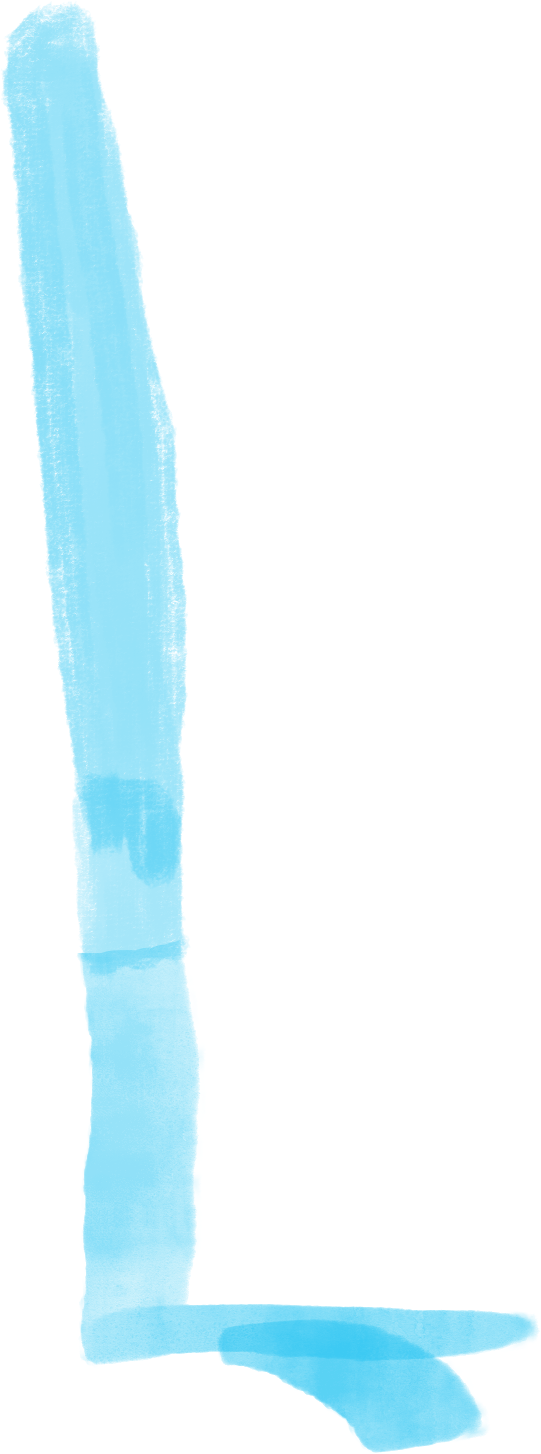
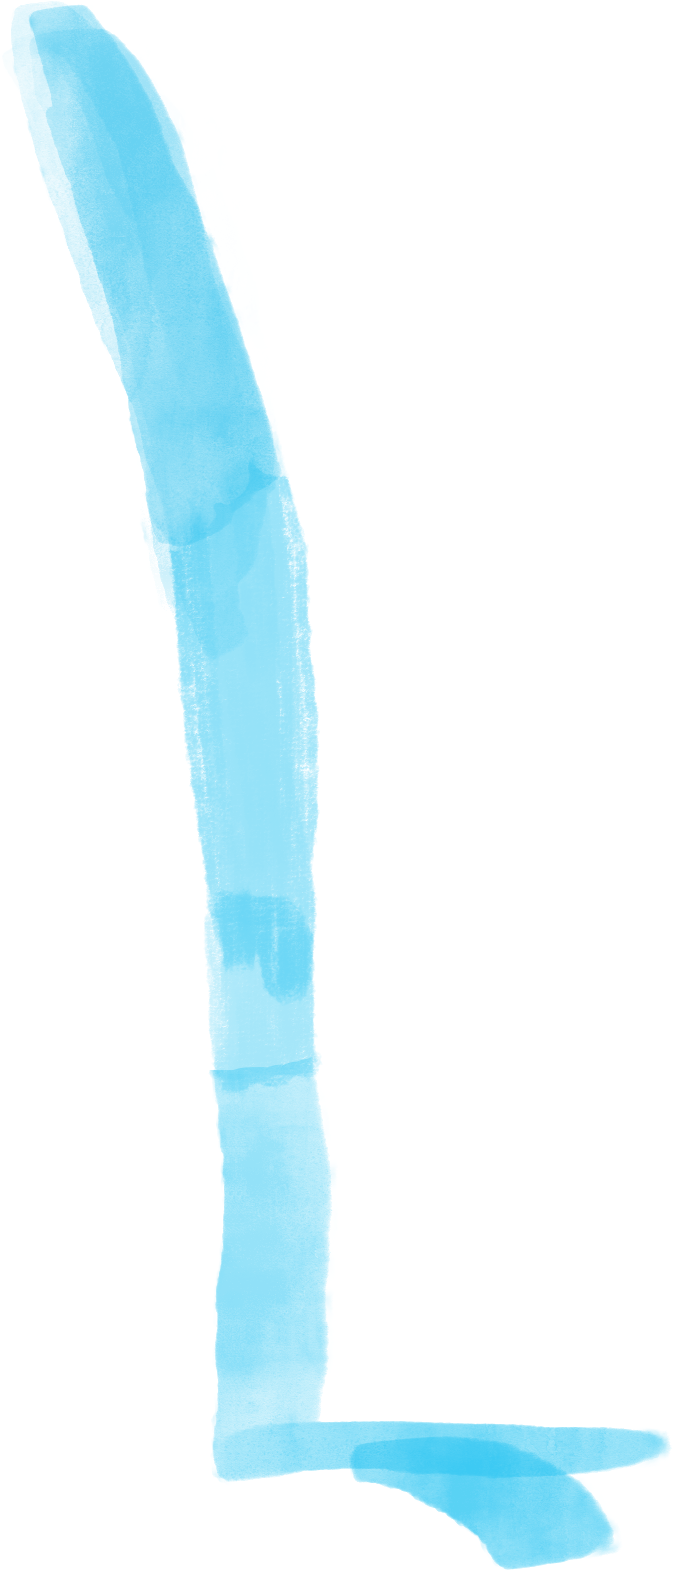
Puppet: Add updated images for legs, body, neck, and head

Changed region(s): [[0.0, 0.0, 1.0, 1.0]]

diff --git a/features/monster/Puppet.tsx b/features/monster/Puppet.tsx
@@ -38,6 +38,7 @@ type PartName =
 	| 'legR'
 	| 'armL'
 	| 'armR'
+	| 'neck'
 	| 'body'
 	| 'head'
 	| 'mouth'
@@ -50,6 +51,7 @@ const partNames = [
 	'legR',
 	'armL',
 	'armR',
+	'neck',
 	'body',
 	'head',
 	'mouth',
@@ -58,30 +60,31 @@ const partNames = [
 	'pupilR',
 ] as PartName[]
 
+const baseGain = 0.33
 const headGain = { x: 1.1, y: 1.1 } as Pos
 
 const parts: Record<PartName, Part> = {
 	legL: {
 		src: require('../../assets/monsterParts/leg-left.png'),
-		left: 0.583,
-		w: 0.213,
-		top: 0.53556,
-		h: 0.40683,
+		left: 0.53461,
+		w: 0.27582,
+		top: 0.48885,
+		h: 0.45497,
 		pivot: { x: 0.61754, y: 0.73971 },
 		doubleSpring: true,
-		gain: { x: 0.8, y: 0.3 },
-		springOpts: { stiffness: 230, damping: 12 },
+		gain: { x: 1.0, y: 0.35 },
+		springOpts: { stiffness: 230, damping: 16 },
 		look: -0.015,
 	},
 	legR: {
 		src: require('../../assets/monsterParts/leg-right.png'),
-		left: 0.304,
-		w: 0.198,
-		top: 0.52916,
-		h: 0.43101,
+		left: 0.31125,
+		w: 0.23033,
+		top: 0.50014,
+		h: 0.4567,
 		pivot: { x: 0.4249, y: 0.73331 },
 		doubleSpring: true,
-		gain: { x: 0.8, y: 0.3 },
+		gain: { x: 0.8, y: 0.35 },
 		springOpts: { stiffness: 340, damping: 16 },
 		look: -0.015,
 	},
@@ -95,7 +98,7 @@ const parts: Record<PartName, Part> = {
 		pivot: { x: 0.6146, y: 0.40139 },
 		doubleSpring: true,
 		springOpts: { stiffness: 300, damping: 18 },
-		look: -0.025,
+		look: -0.017,
 	},
 	armR: {
 		src: require('../../assets/monsterParts/arm-right.png'),
@@ -107,15 +110,23 @@ const parts: Record<PartName, Part> = {
 		pivot: { x: 0.39478, y: 0.3985 },
 		doubleSpring: true,
 		springOpts: { stiffness: 150, damping: 12 },
-		look: -0.02,
+		look: -0.014,
+	},
+	neck: {
+		src: require('../../assets/monsterParts/neck.png'),
+		left: 0.4473,
+		w: 0.11034,
+		top: 0.22805,
+		h: 0.18852,
 	},
 	body: {
 		src: require('../../assets/monsterParts/body.png'),
-		left: 0,
-		w: 1,
-		top: 0,
-		h: 1,
+		left: 0.30117,
+		w: 0.42247,
+		top: 0.27734,
+		h: 0.54863,
 		springOpts: { stiffness: 80, damping: 10 },
+		look: -0.01,
 	},
 	head: {
 		src: require('../../assets/monsterParts/head-blank.png'),
@@ -234,15 +245,15 @@ export default function Puppet() {
 		.onBegin((evt) => {
 			isPressed.value = true
 			press.value = { x: evt.x, y: evt.y }
-			originX.value = evt.translationX * 0.35 + start.value.x
-			originY.value = evt.translationY * 0.35 + start.value.y
+			originX.value = evt.translationX * baseGain + start.value.x
+			originY.value = evt.translationY * baseGain + start.value.y
 			// runOnJS(log)('onBegin')
 		})
 		.onUpdate((evt) => {
 			// runOnJS(log)('onUpdate', evt.translationX, evt.translationY)
 			press.value = { x: evt.x, y: evt.y }
-			originX.value = evt.translationX * 0.35 + start.value.x
-			originY.value = evt.translationY * 0.35 + start.value.y
+			originX.value = evt.translationX * baseGain + start.value.x
+			originY.value = evt.translationY * baseGain + start.value.y
 		})
 		.onEnd((evt) => {
 			isPressed.value = false
